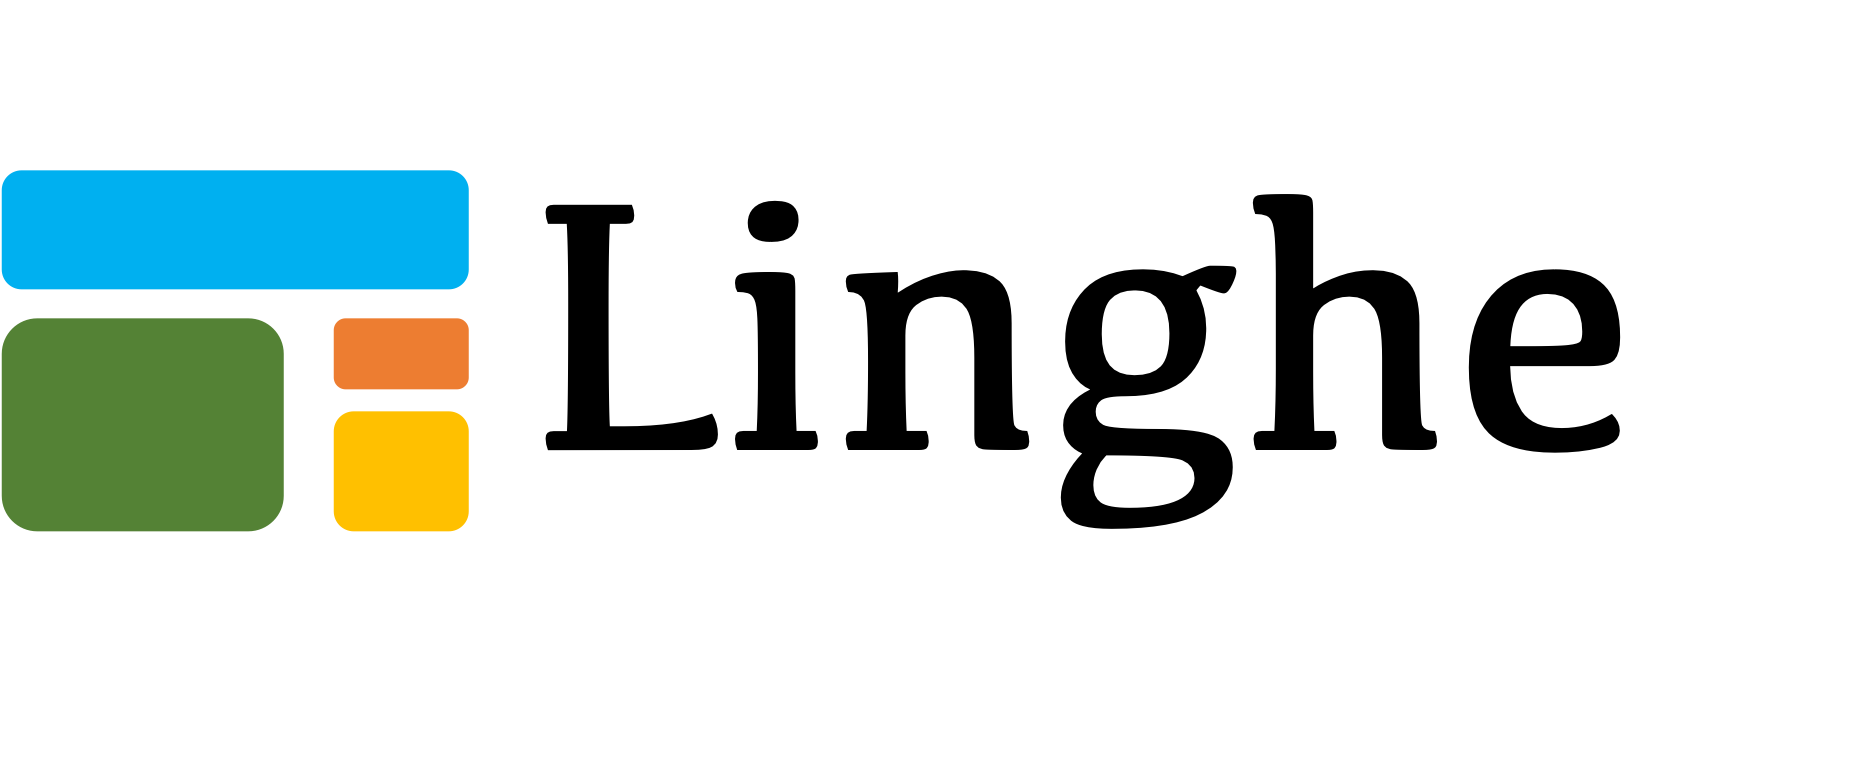
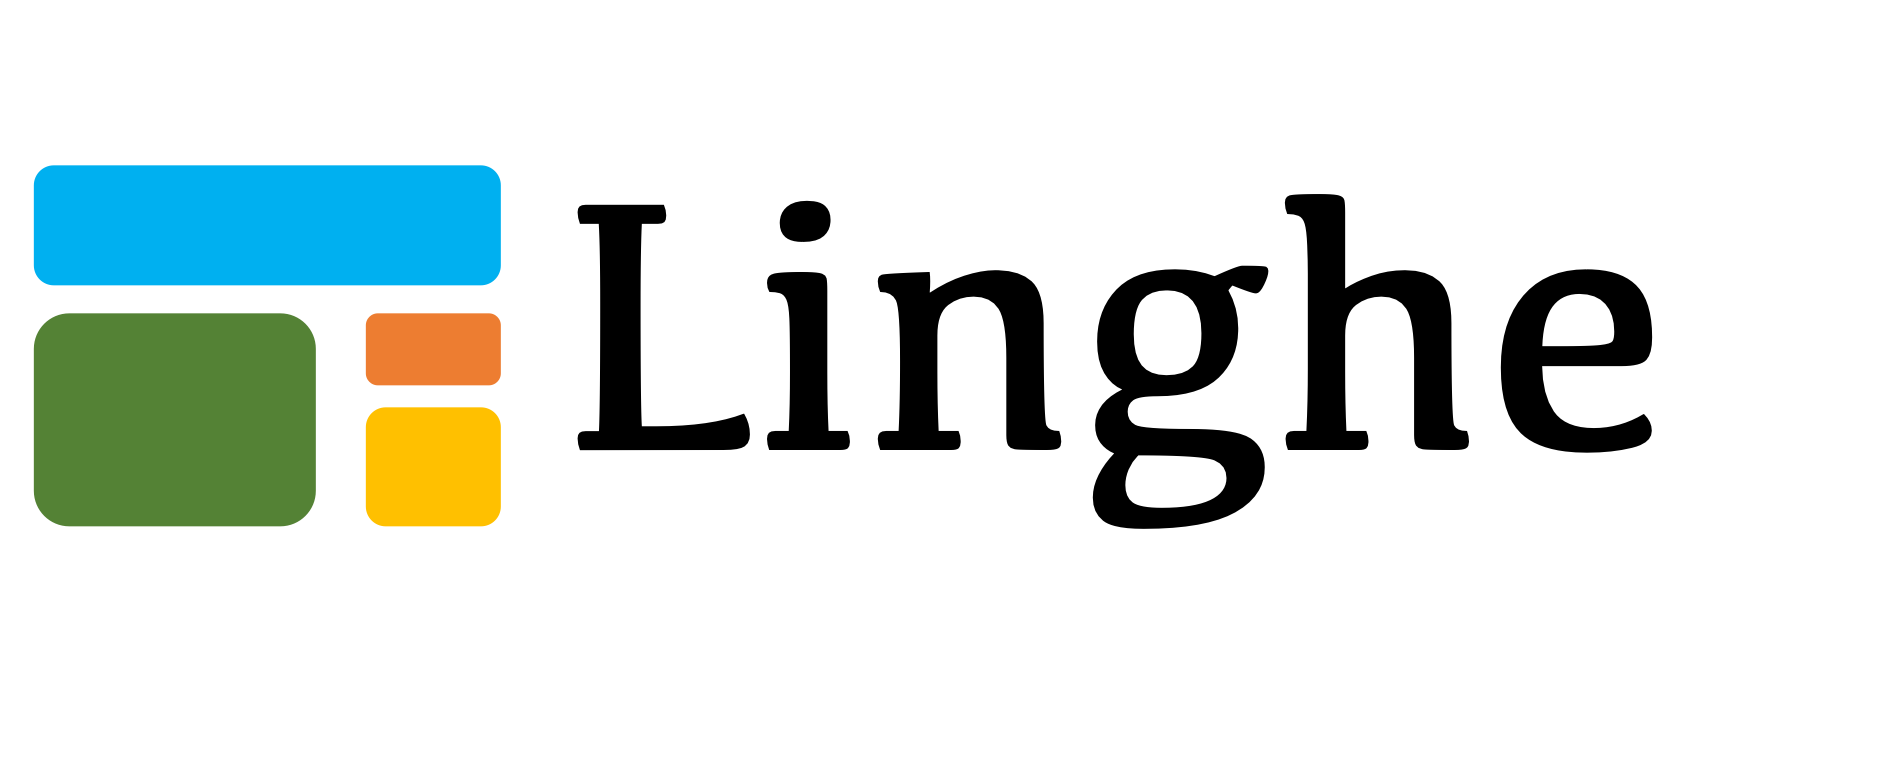
remove unused files

diff --git a/README.md b/README.md
@@ -1,14 +1,13 @@
 
 
-<h1 align="center"> FLOPS </h1>
+<h1 align="center"> Linghe </h1>
 
-<!-- ![](docs/linghe.png){ align="center",width="60%" } -->
 <div style="text-align: center;">
-<img src="docs/linghe_or.png" alt="Logo" width="200">
+<img src="docs/linghe.png" alt="Logo" width="200">
 </div>
   
 <p align="center">
-   A collection of high-performance kernels for LLM training.
+   A library of high-performance kernels for LLM training.
 </p>
 
 
